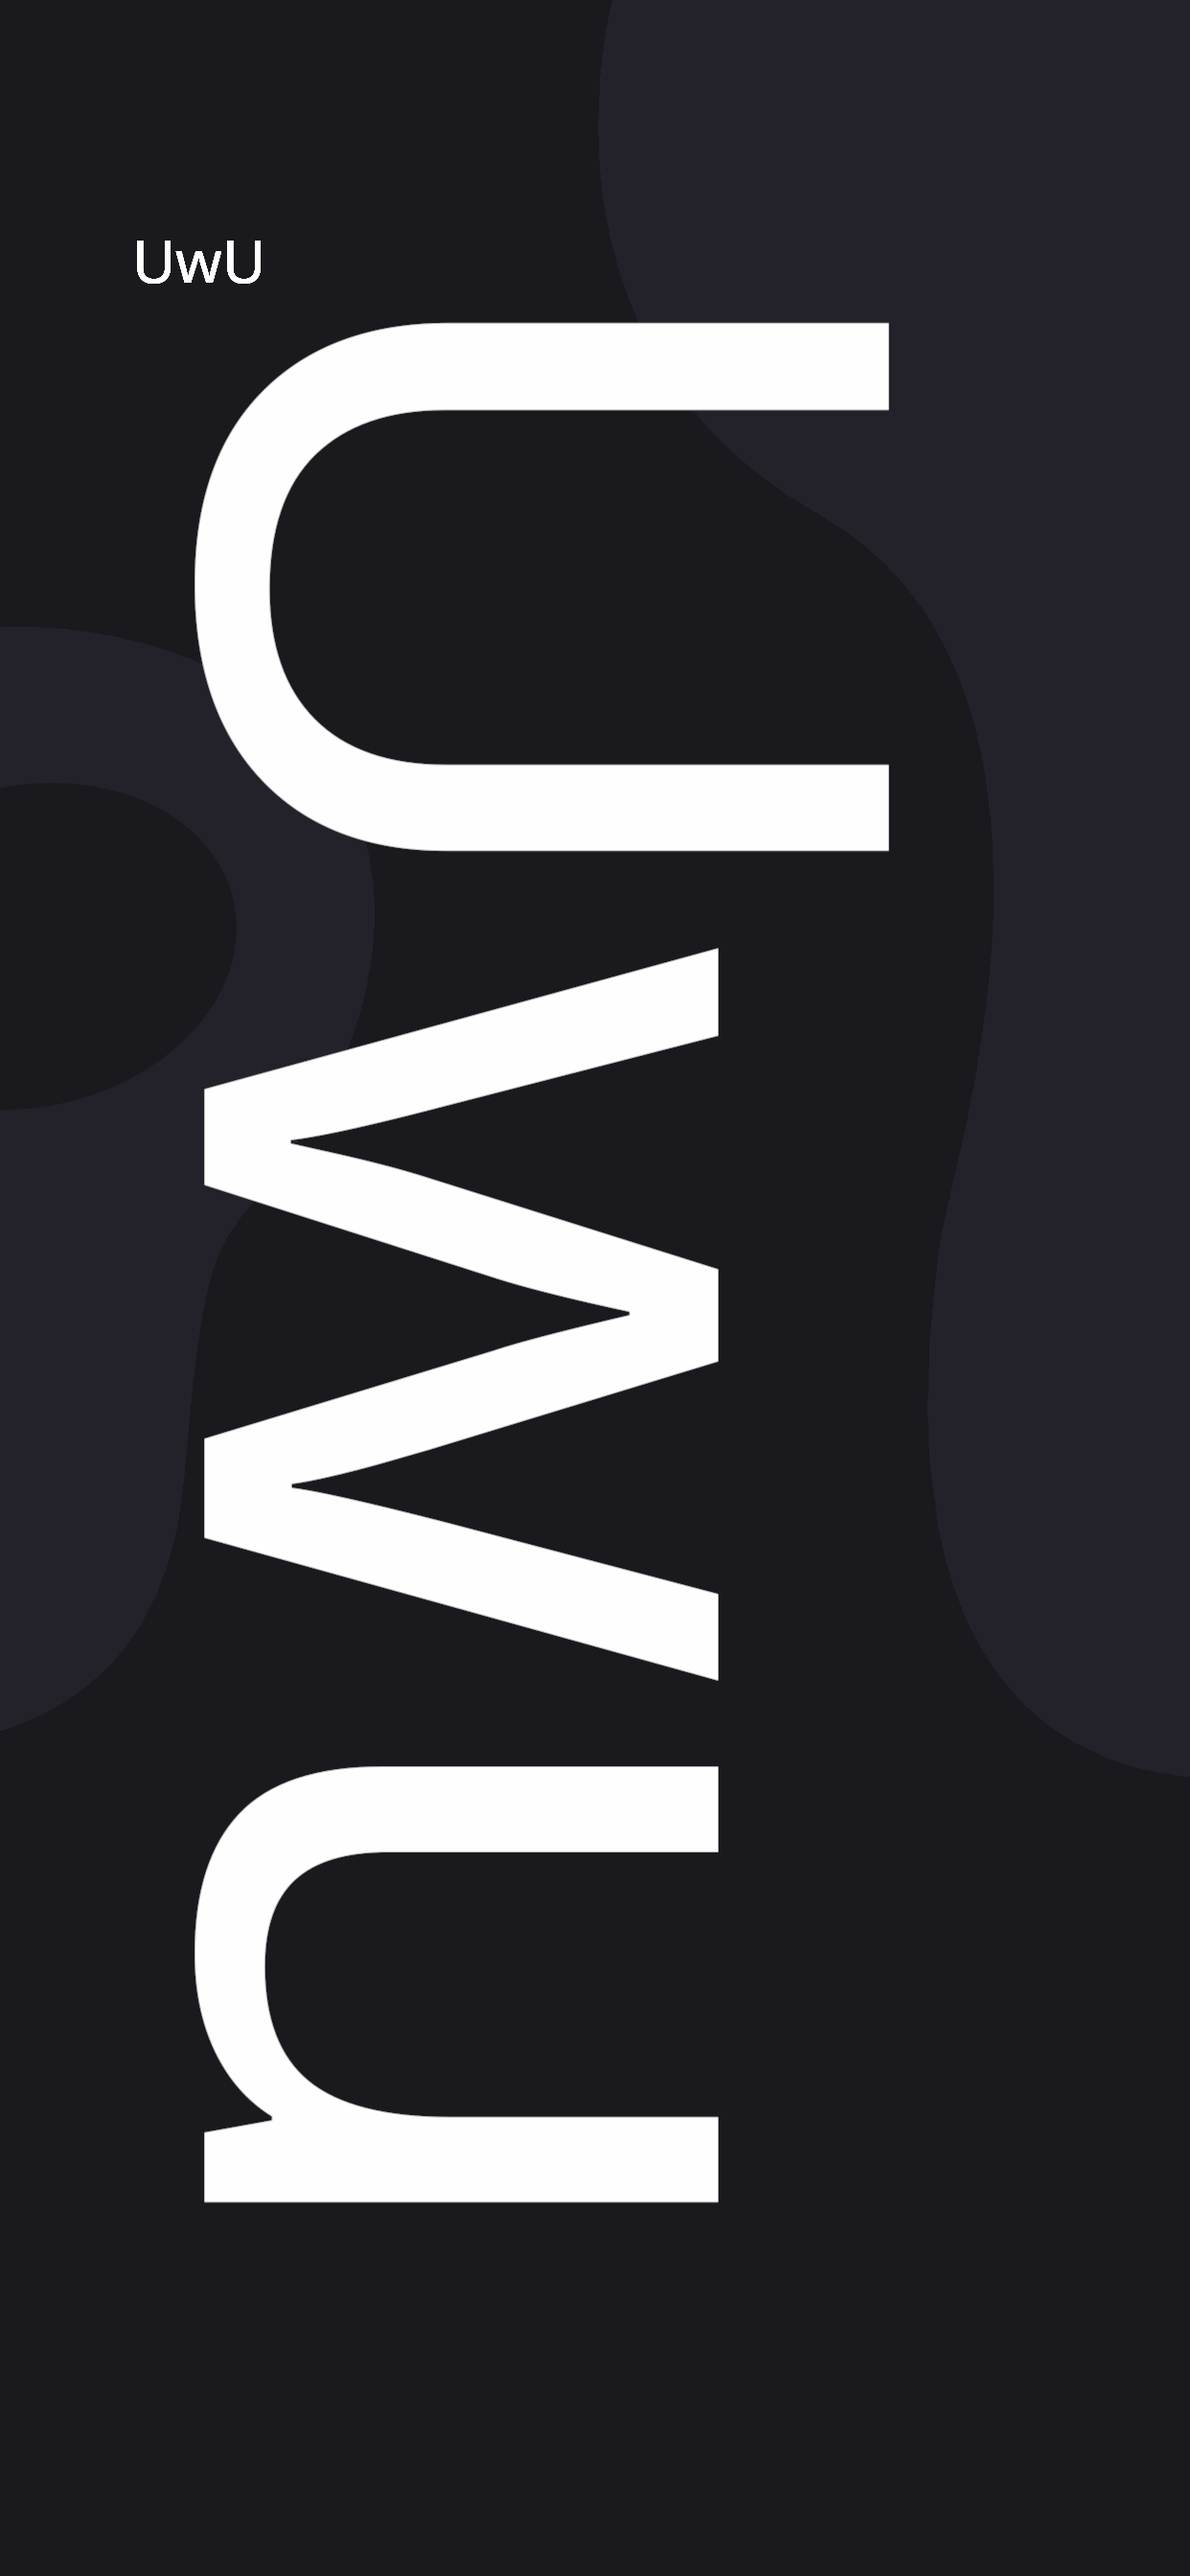
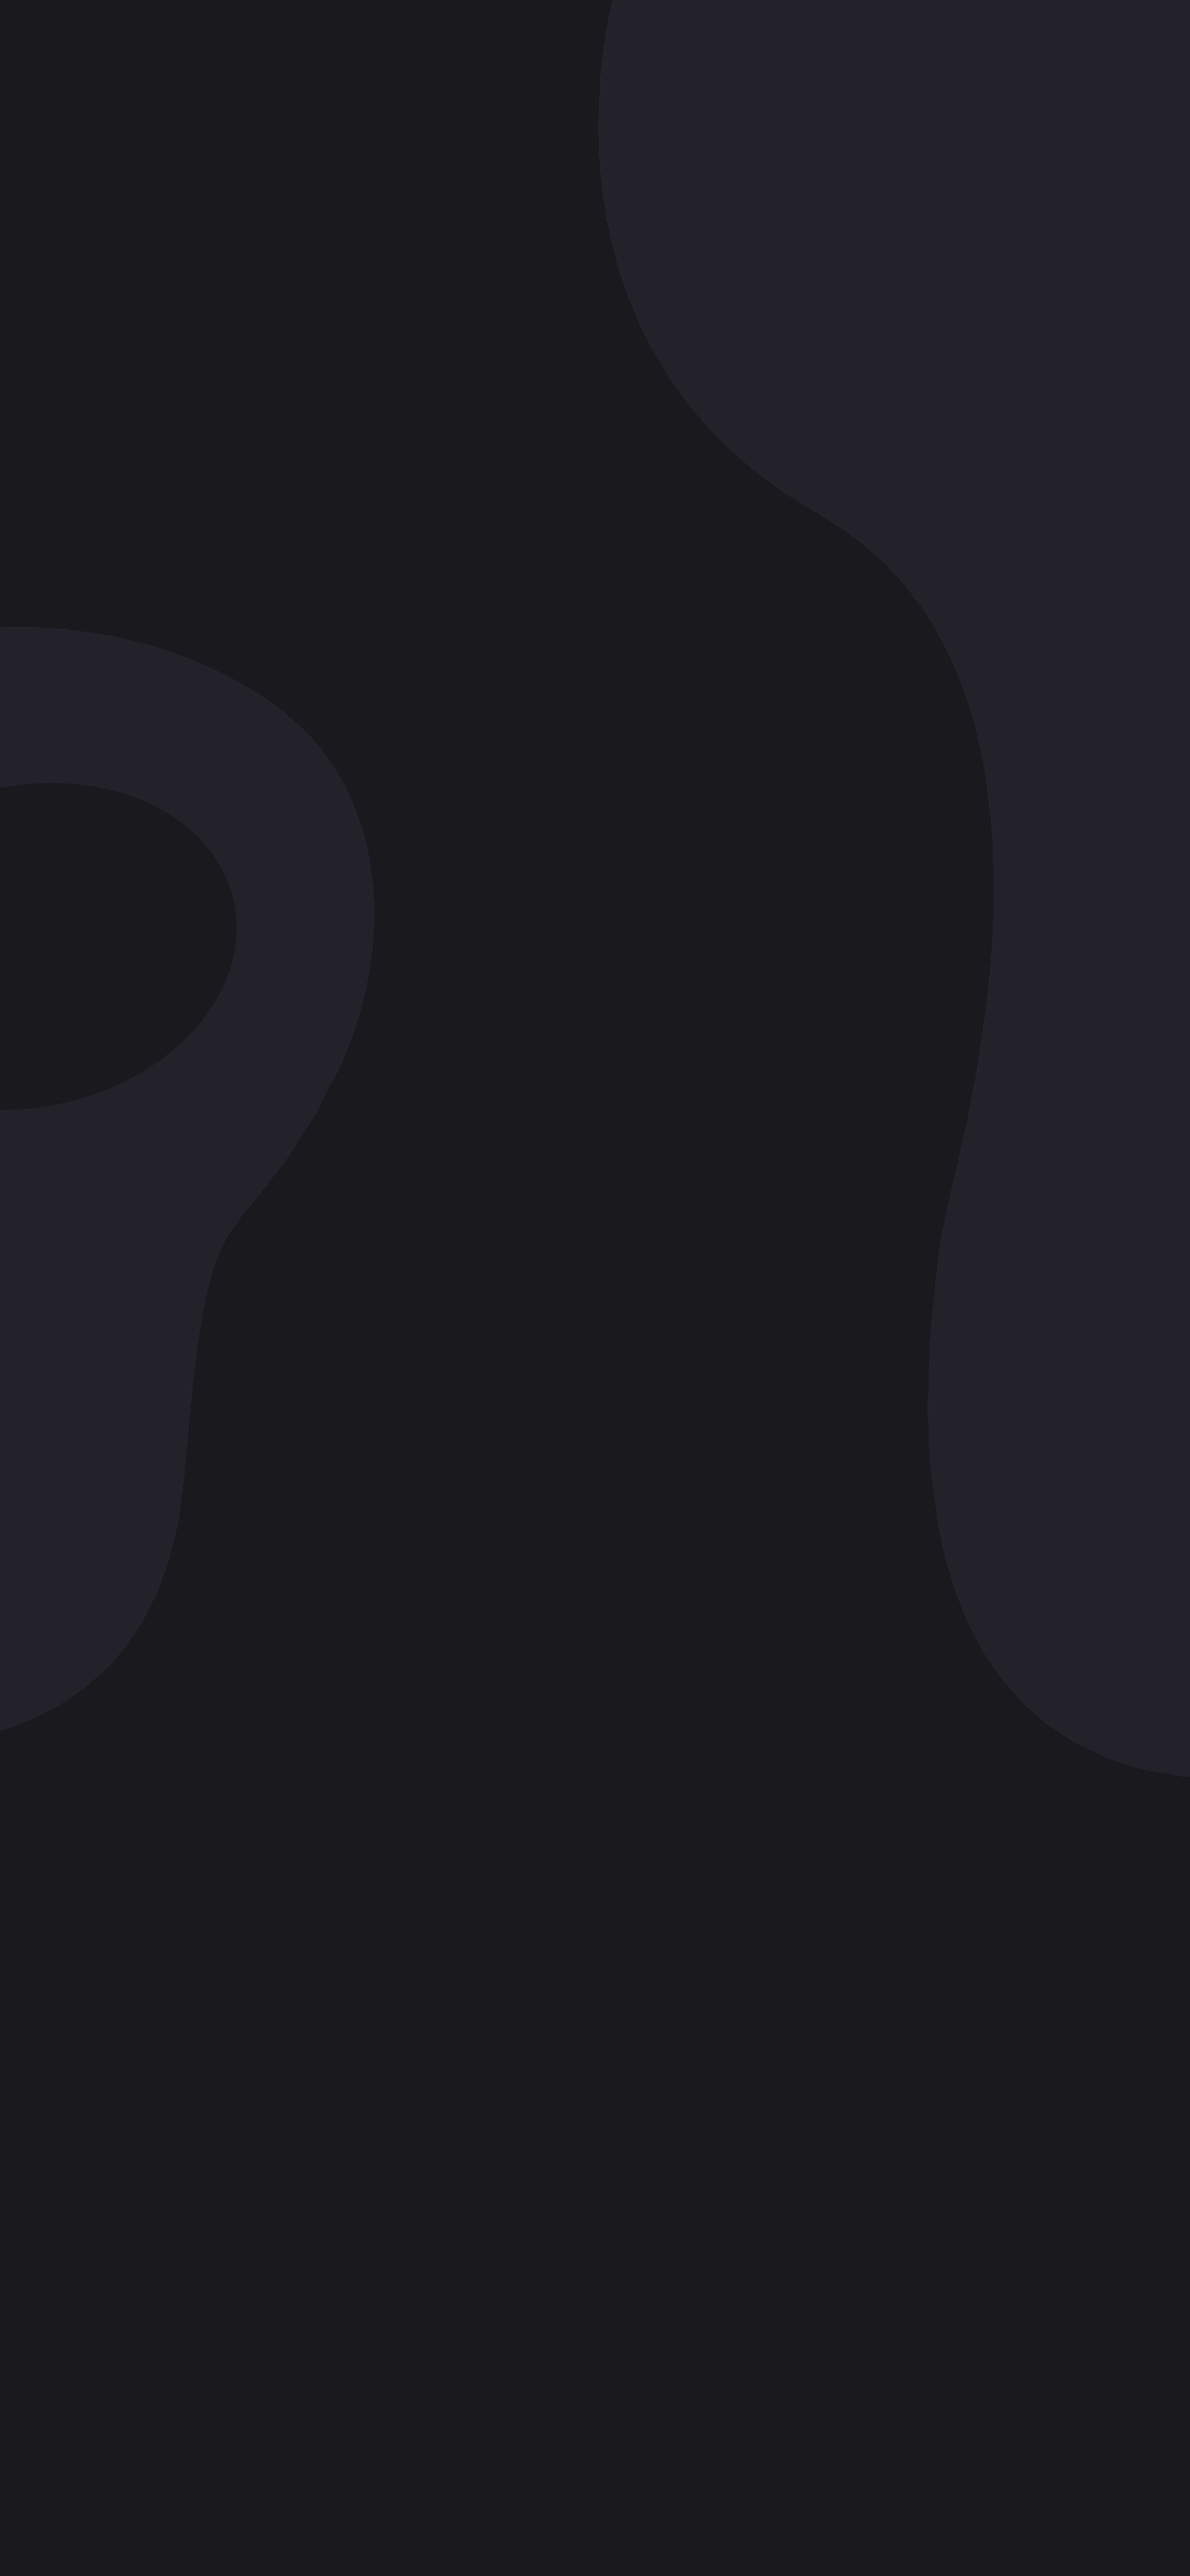
revert

Changed region(s): [[0.153, 0.125, 0.7649, 0.6562], [0.153, 0.6875, 0.6119, 0.875], [0.1224, 0.0938, 0.2142, 0.125]]

diff --git a/script.js b/script.js
@@ -1,78 +1,78 @@
 function calculate() { // void
-    let currentUwUs = parseInt($("#currentUwUs").val()) || 0;
-    let targetLevelUwUs = levelToUwUs(parseInt($("#targetLevel").val())) || 0;
-    if (targetLevelUwUs !== 0 && currentUwUs !== 0) {
-        let UwUsResult = Math.max(targetLevelUwUs - currentUwUs, 0);
-        let currentLevel = UwUsToLevel(currentUwUs);
+    let currentXP = parseInt($("#currentXP").val()) || 0;
+    let targetLevelXP = levelToXP(parseInt($("#targetLevel").val())) || 0;
+    if (targetLevelXP !== 0 && currentXP !== 0) {
+        let xpResult = Math.max(targetLevelXP - currentXP, 0);
+        let currentLevel = xpToLevel(currentXP);
         let nextRankLevel = getNextRankLevel(currentLevel);
-        let nextRankTotalUwUs = levelToUwUs(nextRankLevel);
-        let baseRankLevelUwUs = levelToUwUs(getBaseRankLevel(UwUsToLevel(currentUwUs)));
-        let rankPercentage = ((currentUwUs - baseRankLevelUwUs) / (nextRankTotalUwUs - baseRankLevelUwUs)) * 100;
-        $("#UwUsResult").text(`${UwUsResult} more`);
+        let nextRankTotalXP = levelToXP(nextRankLevel);
+        let baseRankLevelXP = levelToXP(getBaseRankLevel(xpToLevel(currentXP)));
+        let rankPercentage = ((currentXP - baseRankLevelXP) / (nextRankTotalXP - baseRankLevelXP)) * 100;
+        $("#xpResult").text(`${xpResult} more`);
         $("#levelResult").text($("#targetLevel").val());
-        $("#minMessages").text(Math.ceil(UwUsResult / 11));
-        $("#avgMessages").text(Math.ceil(UwUsResult / 5.5));
+        $("#minMessages").text(Math.ceil(xpResult / 11));
+        $("#avgMessages").text(Math.ceil(xpResult / 5.5));
         $("#progressBlob").css("background-color", getRoleColor(currentLevel));
         $("#memberRankName").text(getRoleName(nextRankLevel));
-        if (Math.sign(nextRankTotalUwUs - currentUwUs) === -1) {
-            $("#memberRankUwUsUntil").text(0);
+        if (Math.sign(nextRankTotalXP - currentXP) === -1) {
+            $("#memberRankXPUntil").text(0);
             $("#memberRank").val(100);
             $("#memberRankPercentage").text(100);
         } else {
-            $("#memberRankUwUsUntil").text(nextRankTotalUwUs - currentUwUs);
+            $("#memberRankXPUntil").text(nextRankTotalXP - currentXP);
             $("#memberRank").val(Math.trunc(rankPercentage));
             $("#memberRankPercentage").text(rankPercentage.toFixed(2));
         }
         $("#progressBlobNote").text(getRoleNote(currentLevel));
     } else {
-        $("#UwUsResult").text("< 45");
+        $("#xpResult").text("< 45");
         $("#levelResult").text($("#targetLevel").val() || "0");
         $("#minMessages").text(0);
         $("#avgMessages").text(0);
     }
 }
 
-function customUwUsToLevel() { // void
-    let UwUs = $("#customUwUs").val() || 0;
-    if (UwUs < 45) {
-        $("#customResult").text("UwUs below 45 cannot be converted to level");
+function customXPToLevel() { // void
+    let xp = $("#customXP").val() || 0;
+    if (xp < 45) {
+        $("#customResult").text("XP below 45 cannot be converted to level");
     } else {
-        let level = UwUsToLevel(UwUs);
-        let currentLevelBaseUwUs = levelToUwUs(level);
-        let nextLevelBaseUwUs = levelToUwUs(level + 1);
-        $("#customResult").html(`${UwUs} UwUs translates to level ${UwUsToLevel(UwUs)}<br>${nextLevelBaseUwUs - UwUs} more UwUs needed for level ${level + 1}<br>From level ${level} to ${level + 1}, you're ${(((UwUs - currentLevelBaseUwUs) / (nextLevelBaseUwUs - currentLevelBaseUwUs)) * 100).toFixed(2)}% there`);
+        let level = xpToLevel(xp);
+        let currentLevelBaseXP = levelToXP(level);
+        let nextLevelBaseXP = levelToXP(level + 1);
+        $("#customResult").html(`${xp} XP translates to level ${xpToLevel(xp)}<br>${nextLevelBaseXP - xp} more XP needed for level ${level + 1}<br>From level ${level} to ${level + 1}, you're ${(((xp - currentLevelBaseXP) / (nextLevelBaseXP - currentLevelBaseXP)) * 100).toFixed(2)}% there`);
     }
 }
 
-function customLevelToUwUs() { // void
+function customLevelToXP() { // void
     let level = $("#customLevel").val() || 0;
     if (level < 3) {
-        $("#customResult").text("Level below 3 cannot be converted to UwUs");
+        $("#customResult").text("Level below 3 cannot be converted to XP");
     } else {
-        let UwUs = levelToUwUs(level);
-        $("#customResult").html(`Level ${level} requires ${UwUs} UwUs total<br>${Math.ceil(UwUs / 11)} messages minimum (11 UwUs/msg)<br>${Math.ceil(UwUs / 5.5)} messages average (5.5 UwUs/msg)`);    
+        let xp = levelToXP(level);
+        $("#customResult").html(`Level ${level} requires ${xp} XP total<br>${Math.ceil(xp / 11)} messages minimum (11 XP/msg)<br>${Math.ceil(xp / 5.5)} messages average (5.5 XP/msg)`);    
     }
 }
 
-function levelToUwUs(currentLevel = 0) { // int
+function levelToXP(currentLevel = 0) { // int
     let level = 0;
-    let UwUs = 0;
+    let xp = 0;
     while (level < currentLevel - 1) {
-        UwUs += 45 * level * (Math.floor(level / 10) + 1);
+        xp += 45 * level * (Math.floor(level / 10) + 1);
         level++;
     }
-    return UwUs;
+    return xp;
 }
 
-function UwUsToLevel(currentUwUs = 0) { // int
+function xpToLevel(currentXP = 0) { // int
     let level = 0;
-    let UwUs = 0;
+    let xp = 0;
     while (true) {
-        const nextUwUs = UwUs + 45 * level * (Math.floor(level / 10) + 1);
-        if (nextUwUs > currentUwUs) {
+        const nextXP = xp + 45 * level * (Math.floor(level / 10) + 1);
+        if (nextXP > currentXP) {
             return level + 1;
         }
-        UwUs = nextUwUs;
+        xp = nextXP;
         level++;
     }
 }
@@ -200,19 +200,19 @@ function getBaseRankLevel(level) { // int
 }
 
 $(document).ready(function() { // void
-    $("#levelUpBlock input, #customUwUs, #customLevel").keypress(function(event) {
+    $("#levelUpBlock input, #customXP, #customLevel").keypress(function(event) {
         if (event.key === "Enter" || event.which === 13) {
             var id = $(this).attr("id");
             switch(id) {
-                case "currentUwUs":
+                case "currentXP":
                 case "targetLevel":
                     calculate();
                     break;
-                case "customUwUs":
-                    customUwUsToLevel();
+                case "customXP":
+                    customXPToLevel();
                     break;
                 case "customLevel":
-                    customLevelToUwUs();
+                    customLevelToXP();
                     break;
             }
         }
@@ -222,8 +222,8 @@ $(document).ready(function() { // void
 var isMainBlock = true;
 function switchModes() { // void
     isMainBlock = !isMainBlock;
-    $("#UwUsResult, #levelResult, #minMessages, #avgMessages").text(0);
-    $("#currentUwUs, #targetLevel, #customUwUs, #customLevel").val("");
+    $("#xpResult, #levelResult, #minMessages, #avgMessages").text(0);
+    $("#currentXP, #targetLevel, #customXP, #customLevel").val("");
     $("#customResult").text("No results");
     $("#levelUpBlock, #levelUpButtons, #customBlock, #customButtons").toggleClass("hidden");
     if (isMainBlock) {

diff --git a/index.html b/index.html
@@ -3,7 +3,7 @@
     <head>
         <meta charset="UTF-8">
         <meta name="viewport" content="width=device-width, initial-scale=1.0">
-        <title>GIR UwUs Calculator</title>
+        <title>GIR XP Calculator</title>
         <link rel="preconnect" href="https://fonts.googleapis.com">
         <link rel="preconnect" href="https://fonts.gstatic.com" crossorigin>
         <link href="https://fonts.googleapis.com/css2?family=Montserrat:ital,wght@0,100..900;1,100..900&display=swap" rel="stylesheet">
@@ -11,25 +11,25 @@
     </head>
     <body>
         <div id="page" class="opacity">
-            <h1>GIR UwUs Calculator</h1>
-            <p>UwUs calculator for the <a href="https://discord.gg/jb" target="_blank">r/Jailbreak</a> Discord <a href="https://github.com/DiscordGIR/GIRRewrite" target="_blank">GIR bot</a><br></p>
+            <h1>GIR XP Calculator</h1>
+            <p>XP calculator for the <a href="https://discord.gg/jb" target="_blank">r/Jailbreak</a> Discord <a href="https://github.com/DiscordGIR/GIRRewrite" target="_blank">GIR bot</a><br></p>
             <span id="levelUpBlock" class="block">
                 <span class="inputBlock">
-                    <label for="currentUwUs">Current UwUs <span class="opacity">(required)</span></label>
-                    <input id="currentUwUs" type="number" placeholder="0">
+                    <label for="currentXP">Current XP <span class="opacity">(required)</span></label>
+                    <input id="currentXP" type="number" placeholder="0">
                 </span>
                 <span class="inputBlock">
                     <label for="targetLevel">Target Level <span class="opacity">(required)</span></label>
                     <input id="targetLevel" type="number" placeholder="15">
                 </span>
                 <p>
-                    <span id="UwUsResult">0</span> UwUs needed for level <span id="levelResult">0</span><br>
-                    <span id="minMessages">0</span> messages minimum (11 UwUs/msg)<br>
-                    <span id="avgMessages">0</span> messages average (5.5 UwUs/msg)<br>
+                    <span id="xpResult">0</span> XP needed for level <span id="levelResult">0</span><br>
+                    <span id="minMessages">0</span> messages minimum (11 XP/msg)<br>
+                    <span id="avgMessages">0</span> messages average (5.5 XP/msg)<br>
                 </p>
                 <span id="progress" class="progressBlock">
                     <span class="progressStatistic">
-                        <label for="memberRank">To Member <span id="memberRankName">Plus</span> (<span id="memberRankUwUsUntil">6165</span> UwUs / <span id="memberRankPercentage">0</span>%)</label>
+                        <label for="memberRank">To Member <span id="memberRankName">Plus</span> (<span id="memberRankXPUntil">6165</span> XP / <span id="memberRankPercentage">0</span>%)</label>
                         <progress id="memberRank" value="0" max="100">
                     </span>
                     <span class="progressDisplayBlock">
@@ -39,8 +39,8 @@
             </span>
             <span id="customBlock" class="block hidden">
                 <span class="inputBlock">
-                    <label for="customUwUs">UwUs</label>
-                    <input id="customUwUs" type="number" placeholder="199350">
+                    <label for="customXP">XP</label>
+                    <input id="customXP" type="number" placeholder="199350">
                 </span>
                 <span class="inputBlock">
                     <label for="customLevel">Level</label>
@@ -54,8 +54,8 @@
                     <button onclick="calculate()">Calculate</button>
                 </span>
                 <span id="customButtons" class="buttonRow hidden">
-                    <button onclick="customUwUsToLevel()">UwUs to Level</button>
-                    <button onclick="customLevelToUwUs()">Level to UwUs</button>
+                    <button onclick="customXPToLevel()">XP to Level</button>
+                    <button onclick="customLevelToXP()">Level to XP</button>
                 </span>
             </span>
             <span class="hrText">
@@ -65,16 +65,16 @@
             </span>
             <span class="buttonRow">
                 <button id="modeButton" onclick="switchModes()">Toggle Mode</button>
-                <a href="https://github.com/RisingGlitch/GIR-UwUs-calculator-" target="_blank"><button>GitHub</button></a>
+                <a href="https://github.com/RisingGlitch/GIR-Xp-calculator-" target="_blank"><button>GitHub</button></a>
                 <button onclick="toggleCredits()">Credits</button>
             </span>
             <br>
             <sup class="opacity"><b>Spam will not be tolerated.</b></sup>
             <p id="credits" class="opacity hidden">
                 <b>Credits:</b><br><br>
-                Concept and levelToUwUs() by <a href="https://github.com/RisingGlitch" target="_blank">@systemless_</a><br>
+                Concept and levelToXP() by <a href="https://github.com/RisingGlitch" target="_blank">@systemless_</a><br>
                 Scripting, layout, and design by <a href="https://github.com/dleovl" target="_blank">@dleovl</a><br>
-                UwUs calculation formula from <a href="https://github.com/DiscordGIR/GIRRewrite" target="_blank">GIRRewrite</a>
+                XP calculation formula from <a href="https://github.com/DiscordGIR/GIRRewrite" target="_blank">GIRRewrite</a>
             </p>
         </div>
         <script src="https://ajax.googleapis.com/ajax/libs/jquery/3.7.1/jquery.min.js"></script>

diff --git a/style.css b/style.css
@@ -3,7 +3,7 @@ body {
     display: flex;
     align-items: center;
     justify-content: center;
-    background-image: url("background2.png");
+    background-image: url("background.png");
     background-repeat: no-repeat;
     background-size: cover;
     background-position: top left;
